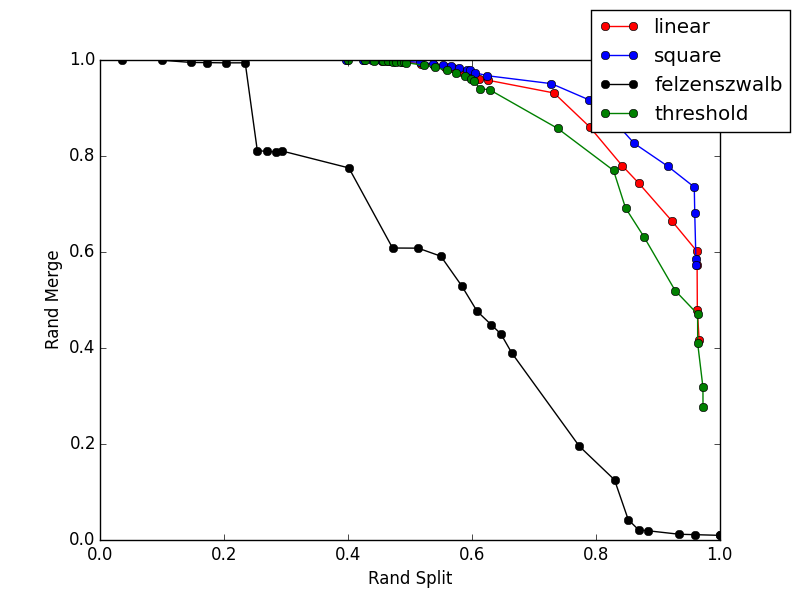
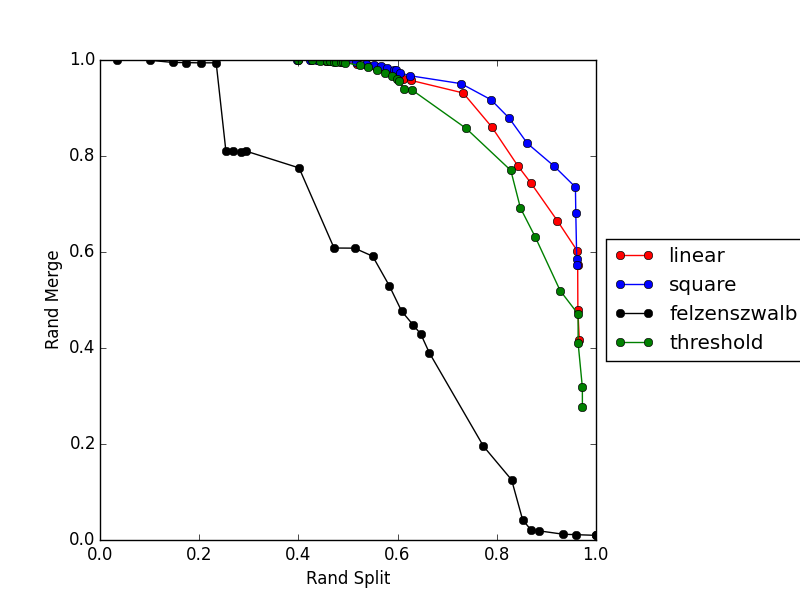
evaluate in parallel

diff --git a/evaluate_par.py b/evaluate_par.py
@@ -1,0 +1,73 @@
+import numpy as np
+import sys
+import array
+import time
+import os
+import h5py
+sys.path.append('src_cython')
+from mainDefs import eval
+from multiprocessing import Pool
+start = time.clock()
+def evaluateFile(args):
+    hdf5_gt_file,hdf5_pred_file,threshes,out = args
+    hdf5_gt = h5py.File(hdf5_gt_file, 'r')
+    hdf5_aff = h5py.File(hdf5_aff_file, 'r')
+    gt = np.asarray(hdf5_gt[hdf5_gt.keys()[0]],dtype='uint32')
+    aff = np.asarray(hdf5_aff[hdf5_aff.keys()[0]],dtype='float32')
+    aff = aff.transpose(3,2,1,0)
+    dims = np.array(aff.shape,dtype='uint32')
+    print 'dims:',aff.shape
+
+    # trim gt data - only works for perfect cubes
+    gt_data_dimension = gt.shape[0]
+    data_dimension = aff.shape[1]
+    if gt_data_dimension != data_dimension:
+        print("Data dimension do not match. Clip the GT borders.")
+        padding = (gt_data_dimension - data_dimension) / 2
+        gt = gt[padding:(-1*padding),padding:(-1*padding),padding:(-1*padding)]
+        print"New GT data shape :",gt.shape
+
+    # evaluate call
+    print "gt shape:",gt.shape
+    print "aff shape:",aff.shape
+    eval(gt,aff,threshes,out)
+
+    end = time.clock()
+    print "time elapsed ",end-start
+
+########################### FIBSEM ARGS ######################################
+# files
+hdf5_gt_file = '/groups/turaga/home/turagas/data/FlyEM/fibsem_medulla_7col/tstvol-520-1-h5/groundtruth_seg_thick.h5'
+hdf5_aff_file = '/groups/turaga/home/turagas/data/FlyEM/fibsem_medulla_7col/tstvol-520-1-h5/groundtruth_aff.h5'
+hdf5_pred_file = '/tier2/turaga/turagas/research/pygt_models/fibsem5/test_out_0.h5'
+hdf5_pred_file_pre = '/tier2/turaga/turagas/research/pygt_models/fibsem'
+hdf5_pred_file_post = '/test_out_0.h5'
+
+# threshes
+threshes = [100+i*100 for i in range(0,10)]+[i*1000 for i in range(2,11)]+[i*10000 for i in range(2,11)] # 100...1,000...100,000
+# threshes = [100+i*300 for i in range(0,4)]+[i*3000 for i in range(1,4)]+[i*30000 for i in range(2,4)] # 100...1,000...100,000
+# threshes = [i*10 for i in range(0,21)]+ [i*25000 for i in range(1,11)]
+print threshes
+
+# output folder
+out = 'out/fibsem'
+
+###############################################################################
+
+# evaluateFile(hdf5_gt_file,hdf5_pred_file,threshes,out)
+
+# make array of args
+dirs = ['','2','3','4','6']
+numWorkers = len(dirs)
+pred_arr = [hdf5_pred_file_pre+dirs[i]+hdf5_pred_file_post for i in range(numWorkers)]
+out_arr = [out+dirs[i]+'/' for i in range(numWorkers)]
+argsArr=[]
+for i in range(numWorkers):
+    argsArr.append([hdf5_gt_file, pred_arr[i], threshes, out_arr[i]])
+print argsArr
+# parallel call
+p = Pool(numWorkers)
+print "Parallel Pool:",numWorkers
+p.map(evaluateFile,argsArr)
+
+

diff --git a/plot_results.py b/plot_results.py
@@ -3,38 +3,45 @@ import pylab as plt
 import sys
 import os.path as op
 
+def formatAndSave(ax):
+    plt.xlabel('Rand Split')
+    plt.ylabel('Rand Merge')
+    #plt.xlim([0,1])
+    #plt.ylim([0,1])
+    plt.legend(bbox_to_anchor=(.4,.4),bbox_transform=plt.gcf().transFigure)
+    # Shrink current axis by 20%
+    box = ax.get_position()
+    ax.set_position([box.x0, box.y0, box.width * 0.8, box.height])
+
+    # Put a legend to the right of the current axis
+    ax.legend(loc='center left', bbox_to_anchor=(1, 0.5))
+    plt.savefig('figs/'+target_folder+'_results.png')
+    plt.show()
+
 target_folder = "test_full"
-
-'''
-print len(sys.argv)
-for arg in sys.argv:
-    print arg
-'''
-
+if len(sys.argv)>1:
+    target_folder = sys.argv[1]
 outfolder = 'out/'+target_folder
-a=np.fromfile( op.join(outfolder , 'linear.dat') )
-print a
-linear=a.reshape(len(a)/2,2)
-plt.plot( linear[:,0], linear[:,1], 'ro-', label='linear')
-plt.hold(True)
 
-a=np.fromfile( op.join(outfolder, 'square.dat') )
-linear=a.reshape(len(a)/2,2)
-plt.plot( linear[:,0], linear[:,1], 'bo-', label='square')
+try:
+    fig = plt.figure()
+    ax = plt.subplot(111)
+    a=np.fromfile( op.join(outfolder , 'linear.dat') )
+    print a
+    linear=a.reshape(len(a)/2,2)
+    plt.plot( linear[:,0], linear[:,1], 'ro-', label='linear') #ms=10
+    plt.hold(True)
+    a=np.fromfile( op.join(outfolder, 'square.dat') )
+    linear=a.reshape(len(a)/2,2)
+    plt.plot( linear[:,0], linear[:,1], 'bo-', label='square')
+    a=np.fromfile( op.join(outfolder, 'felzenszwalb.dat') )
+    linear=a.reshape(len(a)/2,2)
+    plt.plot( linear[:,0], linear[:,1], 'ko-', label='felzenszwalb')
+    a=np.fromfile( op.join(outfolder, 'threshold.dat') )
+    linear=a.reshape(len(a)/2,2)
+    plt.plot( linear[:,0], linear[:,1], 'go-', label='threshold')
+    formatAndSave(ax)
+except:
+    formatAndSave(ax)
 
-a=np.fromfile( op.join(outfolder, 'felzenszwalb.dat') )
-linear=a.reshape(len(a)/2,2)
-plt.plot( linear[:,0], linear[:,1], 'ko-', label='felzenszwalb')
-
-
-a=np.fromfile( op.join(outfolder, 'threshold.dat') )
-linear=a.reshape(len(a)/2,2)
-plt.plot( linear[:,0], linear[:,1], 'go-', label='threshold')
-
-
-plt.xlabel('Rand Split')
-plt.ylabel('Rand Merge')
-plt.legend(bbox_to_anchor=(.5,.5),bbox_transform=plt.gcf().transFigure)
-plt.savefig('figs/'+target_folder+'_results.png')
-plt.show()
 

diff --git a/py/evaluate_c.py b/py/evaluate_c.py
@@ -1,0 +1,57 @@
+import numpy as np
+import sys
+import array
+import time
+import os
+import h5py
+sys.path.append('src_cython')
+from mainDefs import eval
+from multiprocessing import Pool
+start = time.clock()
+p=0
+
+def evaluateFile(hdf5_gt_file,hdf5_pred_file,threshes,out):
+    hdf5_gt = h5py.File(hdf5_gt_file, 'r')
+    hdf5_aff = h5py.File(hdf5_aff_file, 'r')
+    gt = np.asarray(hdf5_gt[hdf5_gt.keys()[0]],dtype='uint32')
+    aff = np.asarray(hdf5_aff[hdf5_aff.keys()[0]],dtype='float32')
+    aff = aff.transpose(3,2,1,0)
+    dims = np.array(aff.shape,dtype='uint32')
+    print 'dims:',aff.shape
+
+    # trim gt data - only works for perfect cubes
+    gt_data_dimension = gt.shape[0]
+    data_dimension = aff.shape[1]
+    if gt_data_dimension != data_dimension:
+        print("Data dimension do not match. Clip the GT borders.")
+        padding = (gt_data_dimension - data_dimension) / 2
+        gt = gt[padding:(-1*padding),padding:(-1*padding),padding:(-1*padding)]
+        print"New GT data shape :",gt.shape
+
+    # evaluate call
+    print "gt shape:",gt.shape
+    print "aff shape:",aff.shape
+    eval(gt,aff,threshes,out)
+
+    end = time.clock()
+    print "time elapsed ",end-start
+
+########################### FIBSEM ######################################
+hdf5_gt_file = '/groups/turaga/home/turagas/data/FlyEM/fibsem_medulla_7col/tstvol-520-1-h5/groundtruth_seg_thick.h5'
+hdf5_aff_file = '/groups/turaga/home/turagas/data/FlyEM/fibsem_medulla_7col/tstvol-520-1-h5/groundtruth_aff.h5'
+hdf5_pred_file = '/tier2/turaga/turagas/research/pygt_models/fibsem5/test_out_0.h5' #'',0,2,3,4,6
+
+'''
+global p
+p = Pool(numWorkers)
+print "Parallel Pool:",numWorkers
+'''
+
+# threshes
+threshes = [100+i*100 for i in range(0,10)]+[i*1000 for i in range(2,11)]+[i*10000 for i in range(2,11)] # 100...1,000...100,000
+print threshes
+
+# output folder
+out = 'out/null/'
+
+evaluateFile(hdf5_gt_file,hdf5_pred_file,threshes,out)
